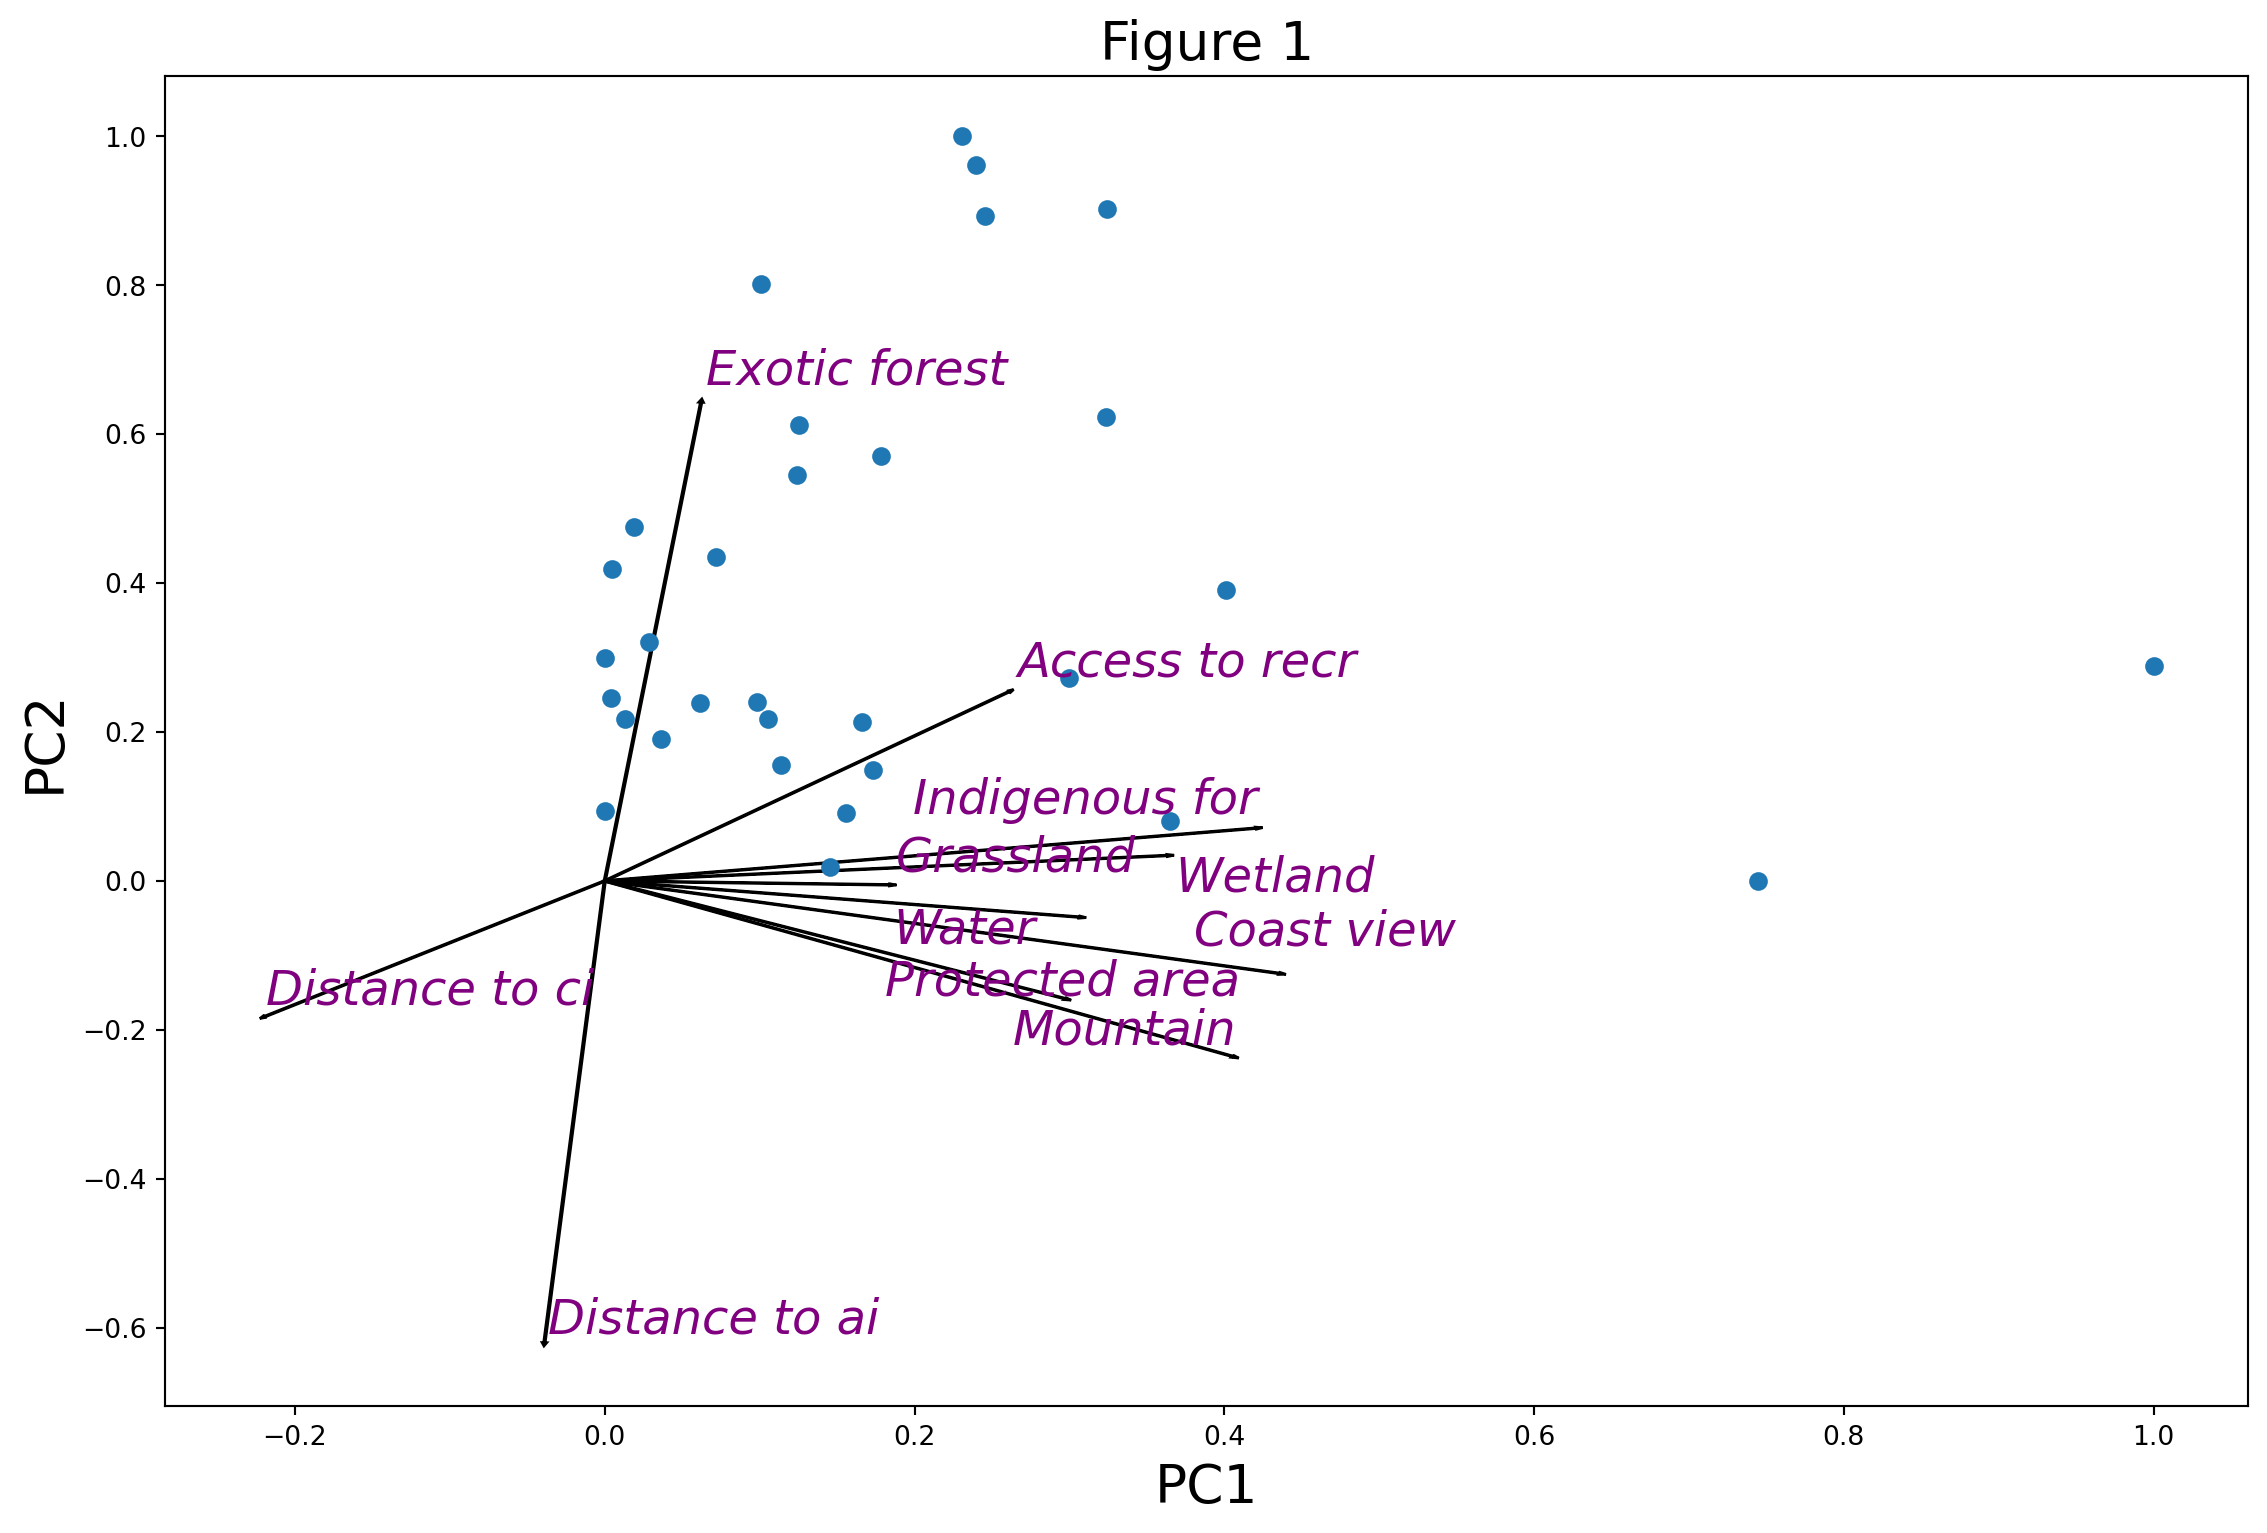
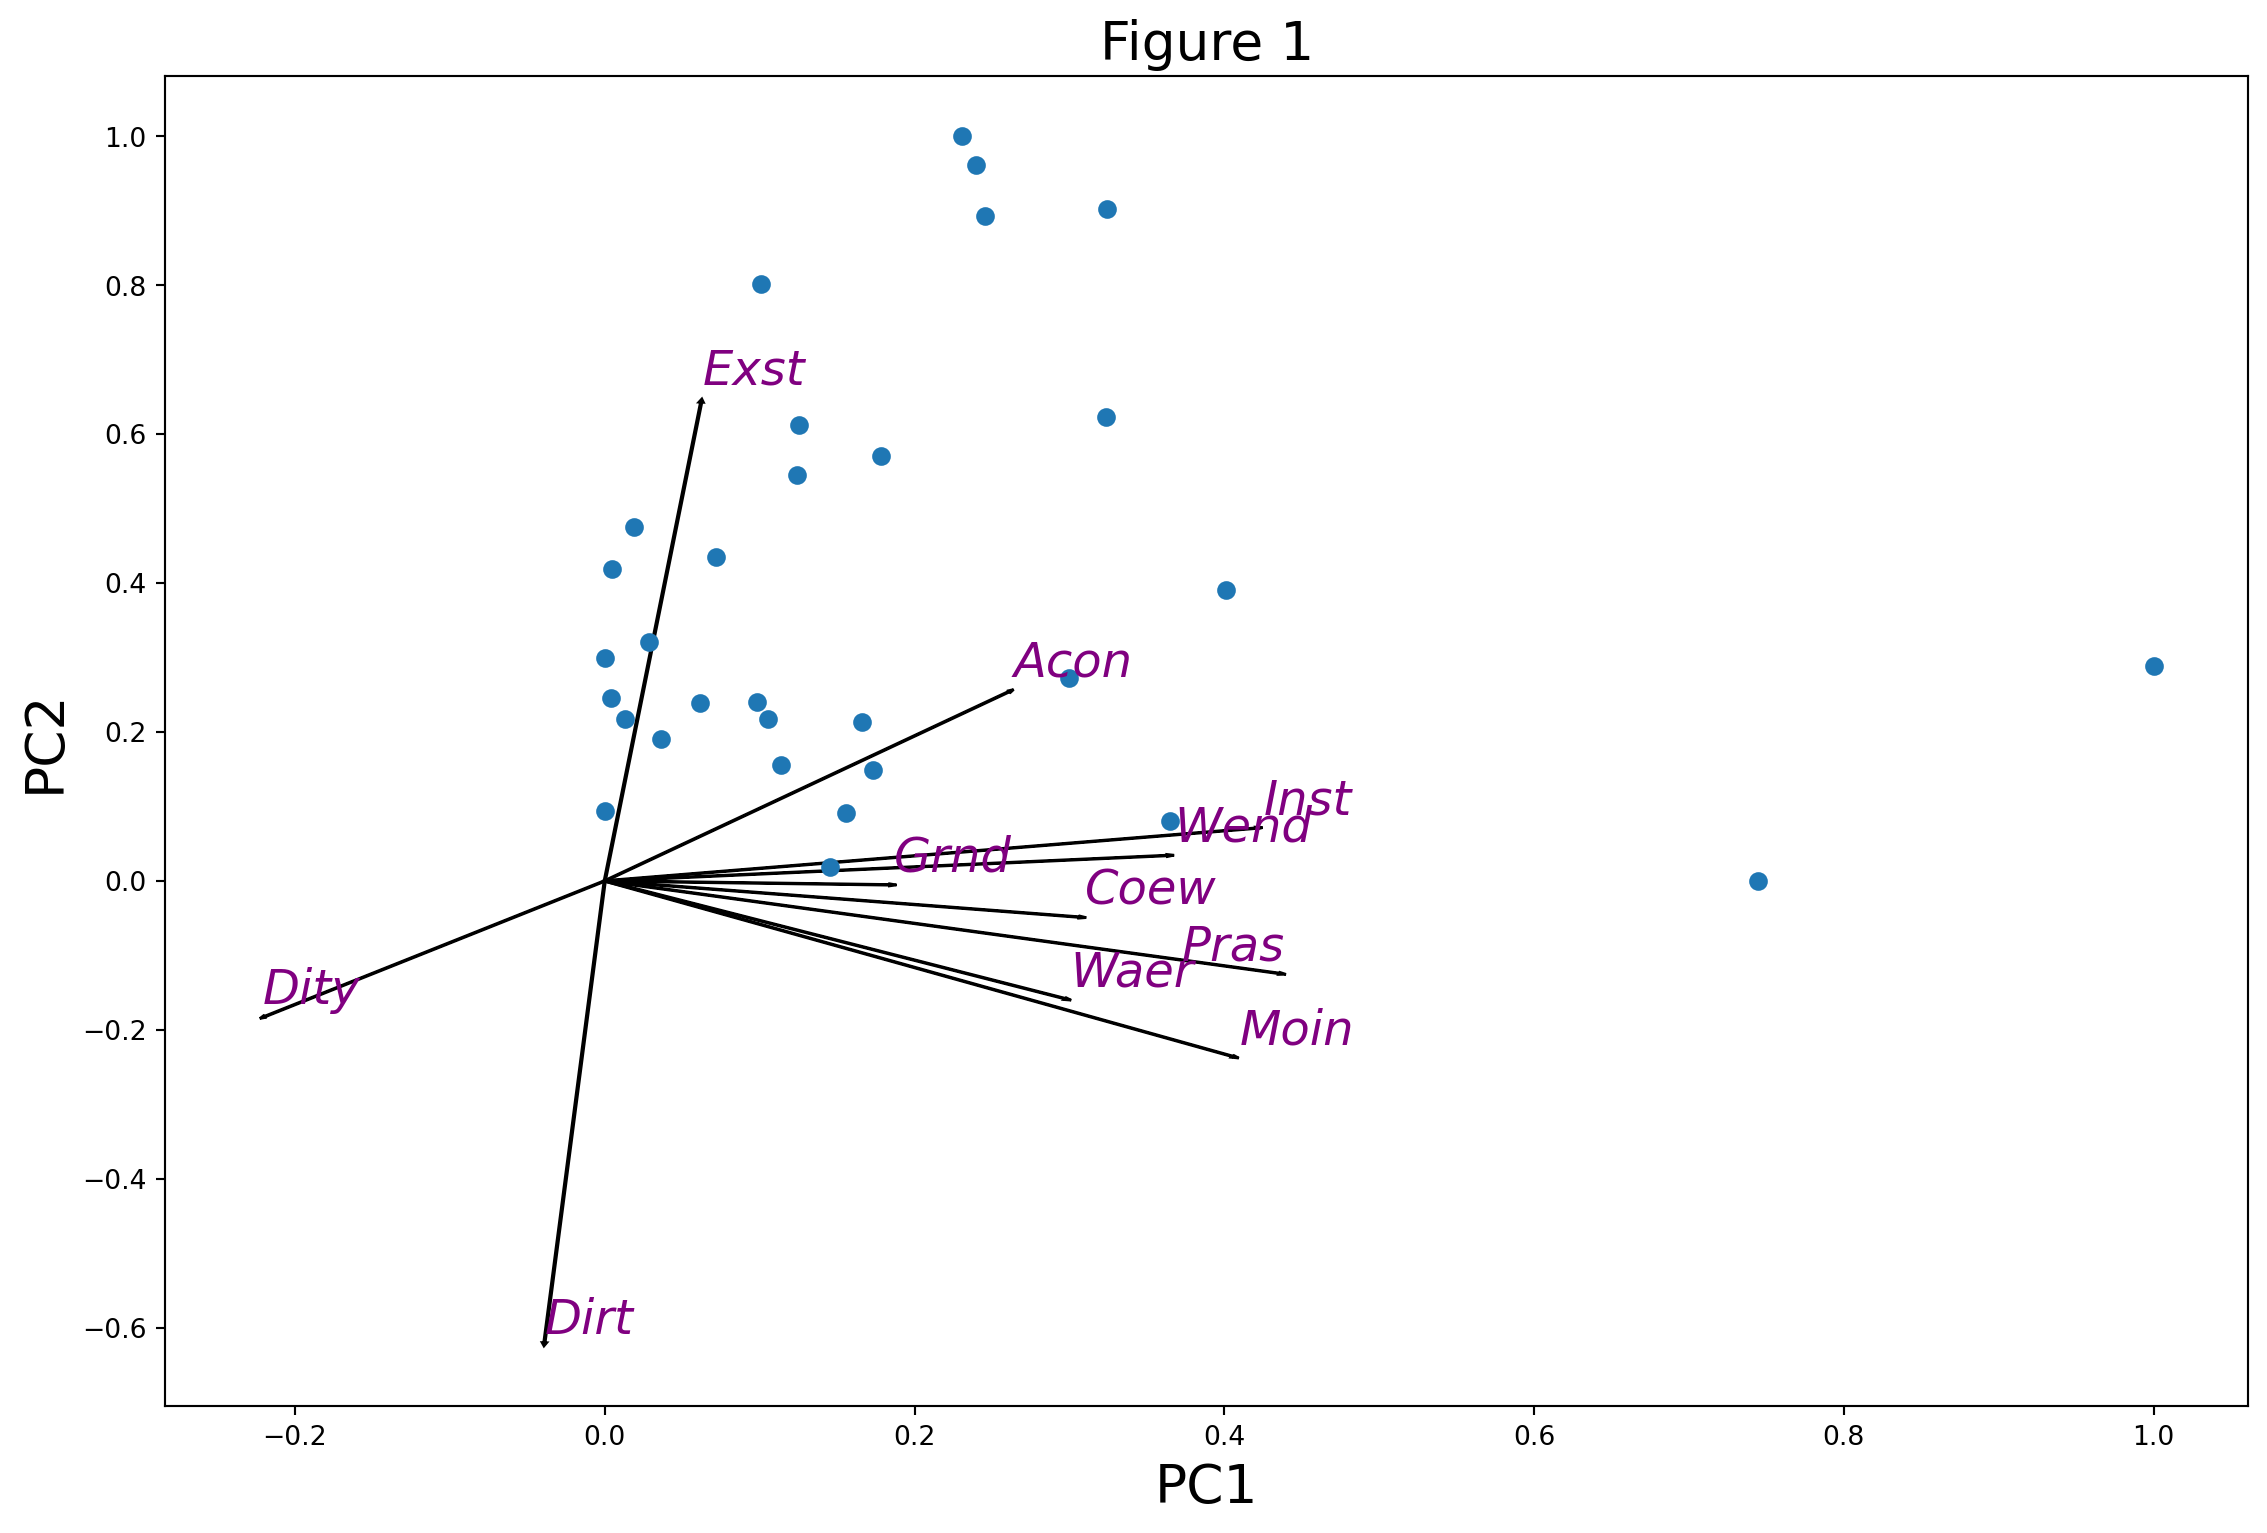
updated

diff --git a/PCA_python_BiPlot_sample_Code.html b/PCA_python_BiPlot_sample_Code.html
@@ -178,7 +178,7 @@ Cannot parse header or footer so it will be ignored
 <span id="cb5-3"><a href="#cb5-3" aria-hidden="true" tabindex="-1"></a>dat_scaled <span class="op">=</span> pd.DataFrame(scaler.fit_transform(dat2), columns <span class="op">=</span> colNames, </span>
 <span id="cb5-4"><a href="#cb5-4" aria-hidden="true" tabindex="-1"></a>index <span class="op">=</span> Index)</span>
 <span id="cb5-5"><a href="#cb5-5" aria-hidden="true" tabindex="-1"></a>dat_scaled</span></code><button title="Copy to Clipboard" class="code-copy-button"><i class="bi"></i></button></pre></div>
-<div class="cell-output cell-output-display" data-execution_count="16">
+<div class="cell-output cell-output-display" data-execution_count="4">
 
 <div>
 
@@ -655,7 +655,7 @@ Cannot parse header or footer so it will be ignored
 <span id="cb6-10"><a href="#cb6-10" aria-hidden="true" tabindex="-1"></a>temp3 <span class="op">=</span> <span class="bu">list</span>(<span class="bu">map</span>(<span class="kw">lambda</span> x, y: x <span class="op">+</span> <span class="bu">str</span>(y), temp1, temp2))</span>
 <span id="cb6-11"><a href="#cb6-11" aria-hidden="true" tabindex="-1"></a>df_loading <span class="op">=</span> pd.DataFrame(Loading.T, index <span class="op">=</span> colNames, columns <span class="op">=</span> temp3)</span>
 <span id="cb6-12"><a href="#cb6-12" aria-hidden="true" tabindex="-1"></a>df_loading</span></code><button title="Copy to Clipboard" class="code-copy-button"><i class="bi"></i></button></pre></div>
-<div class="cell-output cell-output-display" data-execution_count="17">
+<div class="cell-output cell-output-display" data-execution_count="5">
 
 <div>
 
@@ -766,31 +766,33 @@ Cannot parse header or footer so it will be ignored
 <span id="cb7-8"><a href="#cb7-8" aria-hidden="true" tabindex="-1"></a></span>
 <span id="cb7-9"><a href="#cb7-9" aria-hidden="true" tabindex="-1"></a></span>
 <span id="cb7-10"><a href="#cb7-10" aria-hidden="true" tabindex="-1"></a></span>
-<span id="cb7-11"><a href="#cb7-11" aria-hidden="true" tabindex="-1"></a><span class="kw">def</span> abbreviate(strings, length <span class="op">=</span> <span class="dv">14</span>):</span>
+<span id="cb7-11"><a href="#cb7-11" aria-hidden="true" tabindex="-1"></a><span class="kw">def</span> abbreviate(strings, length <span class="op">=</span> <span class="dv">4</span>):</span>
 <span id="cb7-12"><a href="#cb7-12" aria-hidden="true" tabindex="-1"></a>    <span class="cf">if</span> <span class="bu">len</span>(strings) <span class="op">&gt;</span> length:</span>
-<span id="cb7-13"><a href="#cb7-13" aria-hidden="true" tabindex="-1"></a>        res <span class="op">=</span> strings[:length]</span>
-<span id="cb7-14"><a href="#cb7-14" aria-hidden="true" tabindex="-1"></a>    <span class="cf">else</span>:</span>
-<span id="cb7-15"><a href="#cb7-15" aria-hidden="true" tabindex="-1"></a>        res <span class="op">=</span> strings</span>
-<span id="cb7-16"><a href="#cb7-16" aria-hidden="true" tabindex="-1"></a>    <span class="cf">return</span> res</span>
-<span id="cb7-17"><a href="#cb7-17" aria-hidden="true" tabindex="-1"></a></span>
-<span id="cb7-18"><a href="#cb7-18" aria-hidden="true" tabindex="-1"></a>fig, ax <span class="op">=</span> plt.subplots(figsize<span class="op">=</span>(<span class="dv">14</span>, <span class="dv">9</span>))</span>
-<span id="cb7-19"><a href="#cb7-19" aria-hidden="true" tabindex="-1"></a><span class="cf">for</span> i, feature <span class="kw">in</span> <span class="bu">enumerate</span>(df_loading.index):</span>
-<span id="cb7-20"><a href="#cb7-20" aria-hidden="true" tabindex="-1"></a>    ax.arrow(<span class="dv">0</span>, <span class="dv">0</span>, df_loading.iloc[i, <span class="dv">0</span>], </span>
-<span id="cb7-21"><a href="#cb7-21" aria-hidden="true" tabindex="-1"></a>    df_loading.iloc[i, <span class="dv">1</span>])</span>
-<span id="cb7-22"><a href="#cb7-22" aria-hidden="true" tabindex="-1"></a></span>
-<span id="cb7-23"><a href="#cb7-23" aria-hidden="true" tabindex="-1"></a></span>
+<span id="cb7-13"><a href="#cb7-13" aria-hidden="true" tabindex="-1"></a>        ri <span class="op">=</span> <span class="bu">round</span>(length<span class="op">/</span><span class="dv">2</span>)</span>
+<span id="cb7-14"><a href="#cb7-14" aria-hidden="true" tabindex="-1"></a>        le <span class="op">=</span> length <span class="op">-</span> ri</span>
+<span id="cb7-15"><a href="#cb7-15" aria-hidden="true" tabindex="-1"></a>        res <span class="op">=</span> strings[:le] <span class="op">+</span> strings[(<span class="bu">len</span>(strings) <span class="op">-</span> le):<span class="bu">len</span>(strings)]</span>
+<span id="cb7-16"><a href="#cb7-16" aria-hidden="true" tabindex="-1"></a>    <span class="cf">else</span>:</span>
+<span id="cb7-17"><a href="#cb7-17" aria-hidden="true" tabindex="-1"></a>        res <span class="op">=</span> strings</span>
+<span id="cb7-18"><a href="#cb7-18" aria-hidden="true" tabindex="-1"></a>    <span class="cf">return</span> res</span>
+<span id="cb7-19"><a href="#cb7-19" aria-hidden="true" tabindex="-1"></a></span>
+<span id="cb7-20"><a href="#cb7-20" aria-hidden="true" tabindex="-1"></a>fig, ax <span class="op">=</span> plt.subplots(figsize<span class="op">=</span>(<span class="dv">14</span>, <span class="dv">9</span>))</span>
+<span id="cb7-21"><a href="#cb7-21" aria-hidden="true" tabindex="-1"></a><span class="cf">for</span> i, feature <span class="kw">in</span> <span class="bu">enumerate</span>(df_loading.index):</span>
+<span id="cb7-22"><a href="#cb7-22" aria-hidden="true" tabindex="-1"></a>    ax.arrow(<span class="dv">0</span>, <span class="dv">0</span>, df_loading.iloc[i, <span class="dv">0</span>], </span>
+<span id="cb7-23"><a href="#cb7-23" aria-hidden="true" tabindex="-1"></a>    df_loading.iloc[i, <span class="dv">1</span>])</span>
 <span id="cb7-24"><a href="#cb7-24" aria-hidden="true" tabindex="-1"></a></span>
-<span id="cb7-25"><a href="#cb7-25" aria-hidden="true" tabindex="-1"></a>Texts <span class="op">=</span> [ax.text(df_loading.iloc[i, <span class="dv">0</span>] <span class="op">*</span> <span class="fl">1.01</span>, </span>
-<span id="cb7-26"><a href="#cb7-26" aria-hidden="true" tabindex="-1"></a>        df_loading.iloc[i, <span class="dv">1</span>] <span class="op">*</span> <span class="fl">1.01</span>, </span>
-<span id="cb7-27"><a href="#cb7-27" aria-hidden="true" tabindex="-1"></a>        abbreviate(feature), fontsize<span class="op">=</span><span class="dv">18</span>, color <span class="op">=</span> <span class="st">"purple"</span>, </span>
-<span id="cb7-28"><a href="#cb7-28" aria-hidden="true" tabindex="-1"></a>        style <span class="op">=</span> <span class="st">"italic"</span>) <span class="cf">for</span> i, feature <span class="kw">in</span> <span class="bu">enumerate</span>(df_loading.index)]</span>
-<span id="cb7-29"><a href="#cb7-29" aria-hidden="true" tabindex="-1"></a>adjust_text(Texts)</span>
-<span id="cb7-30"><a href="#cb7-30" aria-hidden="true" tabindex="-1"></a></span>
-<span id="cb7-31"><a href="#cb7-31" aria-hidden="true" tabindex="-1"></a>ax.scatter(df_score.PC1, df_score.PC2)</span>
-<span id="cb7-32"><a href="#cb7-32" aria-hidden="true" tabindex="-1"></a>ax.set_xlabel(<span class="st">'PC1'</span>, fontsize<span class="op">=</span><span class="dv">20</span>)</span>
-<span id="cb7-33"><a href="#cb7-33" aria-hidden="true" tabindex="-1"></a>ax.set_ylabel(<span class="st">'PC2'</span>, fontsize<span class="op">=</span><span class="dv">20</span>)</span>
-<span id="cb7-34"><a href="#cb7-34" aria-hidden="true" tabindex="-1"></a>ax.set_title(<span class="st">'Figure 1'</span>, fontsize<span class="op">=</span><span class="dv">20</span>)</span>
-<span id="cb7-35"><a href="#cb7-35" aria-hidden="true" tabindex="-1"></a>plt.show()</span></code><button title="Copy to Clipboard" class="code-copy-button"><i class="bi"></i></button></pre></div>
+<span id="cb7-25"><a href="#cb7-25" aria-hidden="true" tabindex="-1"></a></span>
+<span id="cb7-26"><a href="#cb7-26" aria-hidden="true" tabindex="-1"></a></span>
+<span id="cb7-27"><a href="#cb7-27" aria-hidden="true" tabindex="-1"></a>Texts <span class="op">=</span> [ax.text(df_loading.iloc[i, <span class="dv">0</span>] <span class="op">*</span> <span class="fl">1.01</span>, </span>
+<span id="cb7-28"><a href="#cb7-28" aria-hidden="true" tabindex="-1"></a>        df_loading.iloc[i, <span class="dv">1</span>] <span class="op">*</span> <span class="fl">1.01</span>, </span>
+<span id="cb7-29"><a href="#cb7-29" aria-hidden="true" tabindex="-1"></a>        abbreviate(feature), fontsize<span class="op">=</span><span class="dv">18</span>, color <span class="op">=</span> <span class="st">"purple"</span>, </span>
+<span id="cb7-30"><a href="#cb7-30" aria-hidden="true" tabindex="-1"></a>        style <span class="op">=</span> <span class="st">"italic"</span>) <span class="cf">for</span> i, feature <span class="kw">in</span> <span class="bu">enumerate</span>(df_loading.index)]</span>
+<span id="cb7-31"><a href="#cb7-31" aria-hidden="true" tabindex="-1"></a>adjust_text(Texts)</span>
+<span id="cb7-32"><a href="#cb7-32" aria-hidden="true" tabindex="-1"></a></span>
+<span id="cb7-33"><a href="#cb7-33" aria-hidden="true" tabindex="-1"></a>ax.scatter(df_score.PC1, df_score.PC2)</span>
+<span id="cb7-34"><a href="#cb7-34" aria-hidden="true" tabindex="-1"></a>ax.set_xlabel(<span class="st">'PC1'</span>, fontsize<span class="op">=</span><span class="dv">20</span>)</span>
+<span id="cb7-35"><a href="#cb7-35" aria-hidden="true" tabindex="-1"></a>ax.set_ylabel(<span class="st">'PC2'</span>, fontsize<span class="op">=</span><span class="dv">20</span>)</span>
+<span id="cb7-36"><a href="#cb7-36" aria-hidden="true" tabindex="-1"></a>ax.set_title(<span class="st">'Figure 1'</span>, fontsize<span class="op">=</span><span class="dv">20</span>)</span>
+<span id="cb7-37"><a href="#cb7-37" aria-hidden="true" tabindex="-1"></a>plt.show()</span></code><button title="Copy to Clipboard" class="code-copy-button"><i class="bi"></i></button></pre></div>
 <div class="cell-output cell-output-display">
 <p><img src="PCA_python_BiPlot_sample_Code_files/figure-html/cell-7-output-1.png" width="1134" height="767"></p>
 </div>
